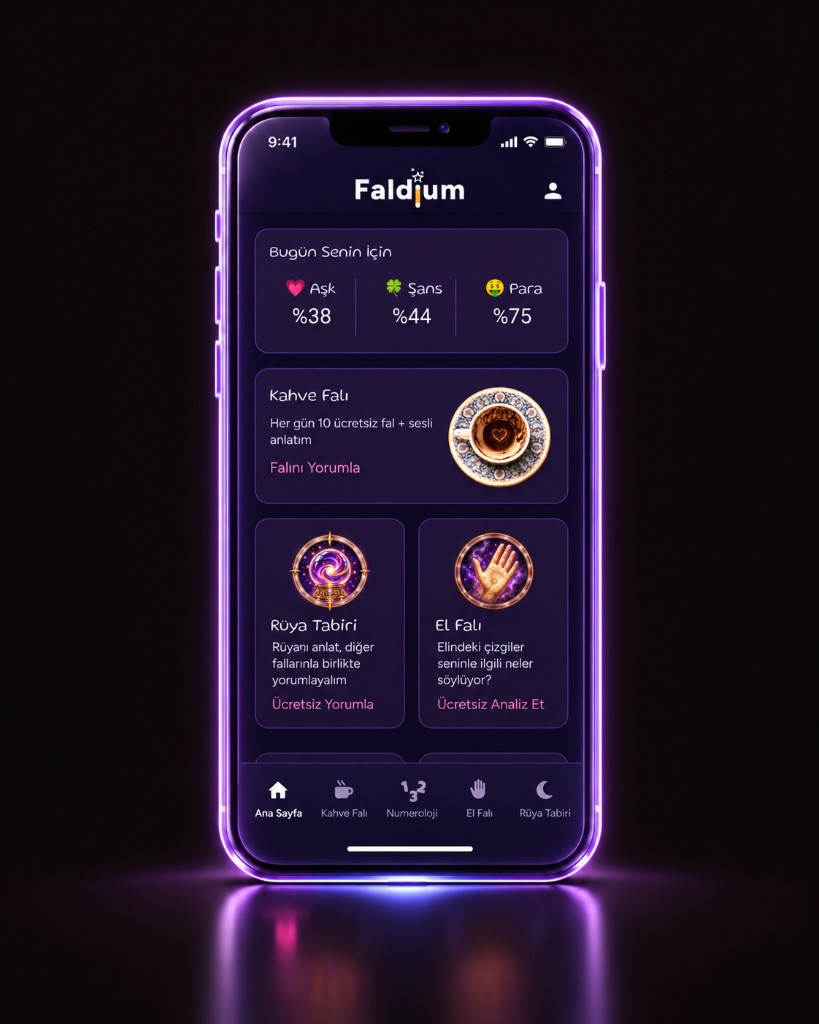
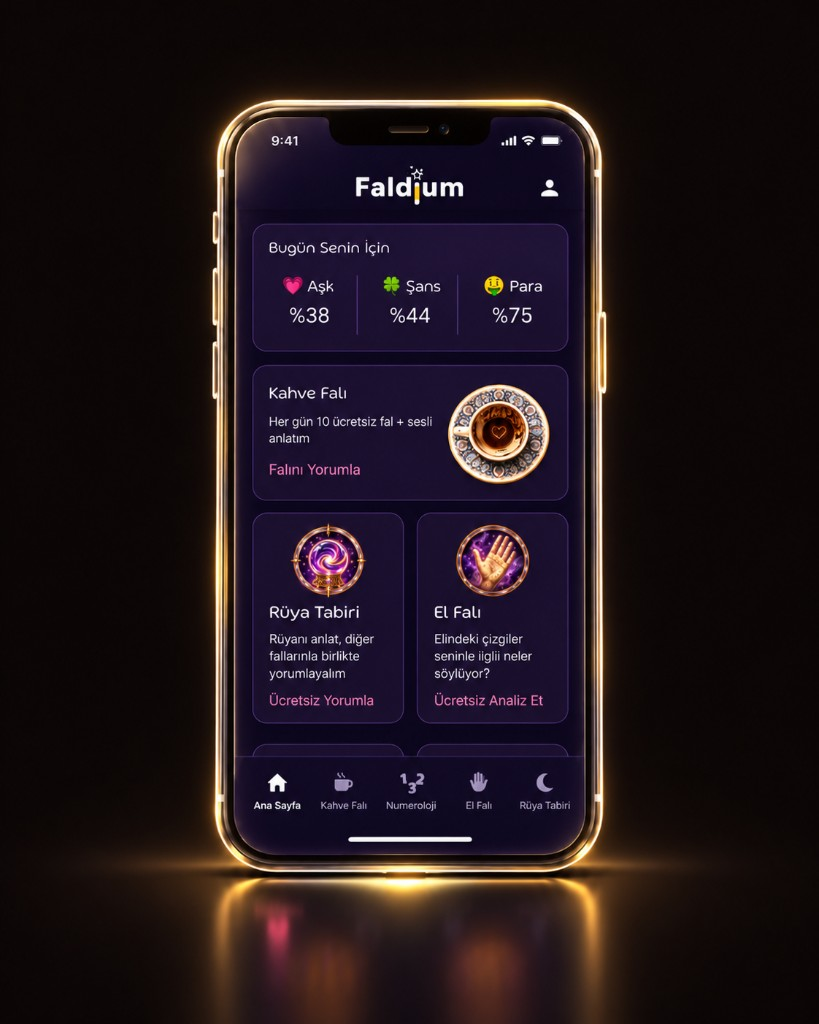
Fix section scroll targets and refresh Faldium My Products card.
Anchor Selected Works and About to their headings like My Products, and update the Faldium card mockup, copy, and layout for release.

Changed region(s): [[0.1526, 0.0625, 0.8547, 1.0], [0.58, 0.25, 0.6716, 0.3125]]

diff --git a/src/components/home/SelectedWorkPreview.tsx b/src/components/home/SelectedWorkPreview.tsx
@@ -47,11 +47,13 @@ export function SelectedWorkPreview() {
 
   return (
     <section
-      id="work"
-      className="scroll-mt-24 bg-surface px-5 pt-20 pb-0 text-ink md:scroll-mt-28 md:px-8 md:pt-28 md:pb-0"
+      className="bg-surface px-5 pt-20 pb-0 text-ink md:px-8 md:pt-28 md:pb-0"
       aria-labelledby="work-heading"
     >
-      <div className="mx-auto max-w-[72rem]">
+      <div
+        id="work"
+        className="mx-auto max-w-[72rem] scroll-mt-24 md:scroll-mt-28"
+      >
         <div className="mb-10 max-w-2xl md:mb-14">
           <h2
             id="work-heading"
@@ -118,7 +120,7 @@ export function SelectedWorkPreview() {
         </div>
 
         <article className="overflow-hidden rounded-[1.25rem] border border-line bg-surface shadow-[0_28px_70px_rgba(0,0,0,0.35)]">
-          <div className="grid grid-cols-1 gap-8 p-6 pb-0 md:grid-cols-2 md:gap-10 md:p-8 md:pb-0 md:pr-0">
+          <div className="grid grid-cols-1 gap-8 p-6 pb-0 md:grid-cols-[1.2fr_0.8fr] md:gap-10 md:p-8 md:pb-0 md:pr-0">
             <div className="flex min-w-0 flex-col pb-6 md:pb-8">
               <h3 className="text-[clamp(1.35rem,2.4vw,1.85rem)] font-semibold tracking-tight text-ink">
                 Faldium
@@ -129,10 +131,9 @@ export function SelectedWorkPreview() {
               <p className="mt-5 text-[0.95rem] leading-relaxed text-ink/90">
                 Faldium started as a Turkish coffee reading app: you upload
                 photos of your cup and get an AI reading with voice narration.
-                The app keeps developing and changing with user surveys and
-                feedback. I track usage with Firebase, Google Analytics and my
-                own event tracking to find problems and improve the UX. Next:
-                English, more countries and a companion AI app.
+                User surveys, feedback and my own usage tracking (Firebase,
+                Google Analytics, custom events) keep shaping it. Next: English,
+                more countries and a companion AI app.
               </p>
 
               <dl className="mt-6 space-y-3 text-[0.88rem] leading-snug">
@@ -171,7 +172,7 @@ export function SelectedWorkPreview() {
             </div>
 
             <div className="min-w-0 self-end">
-              <div className="ml-auto w-[90%] opacity-70">
+              <div className="ml-auto w-[85%] -translate-x-10 opacity-70">
                 <ImagePlaceholder
                   id="faldium-card"
                   description="Faldium app screens"

diff --git a/src/components/layout/SiteHeader.tsx b/src/components/layout/SiteHeader.tsx
@@ -92,14 +92,17 @@ export function SiteHeader() {
                     href={item.href}
                     className={linkClass}
                     onClick={(event) => {
+                      if (!item.href) return;
+                      event.preventDefault();
                       if (item.href === "#work") {
                         window.dispatchEvent(new Event(WORKS_GO_START_EVENT));
                       }
-                      if (window.location.hash === item.href) {
-                        event.preventDefault();
-                        document
-                          .getElementById(item.href.slice(1))
-                          ?.scrollIntoView({ behavior: "smooth" });
+                      const target = document.getElementById(
+                        item.href.slice(1),
+                      );
+                      if (target) {
+                        target.scrollIntoView({ behavior: "smooth" });
+                        window.history.pushState(null, "", item.href);
                       }
                     }}
                   >
@@ -143,14 +146,17 @@ export function SiteHeader() {
                     className="inline-flex cursor-pointer items-center gap-3 py-2 text-left text-[calc(1.125rem-2px)] font-normal tracking-[0.04em] text-white/90 uppercase"
                     onClick={(event) => {
                       setMenuOpen(false);
+                      if (!item.href) return;
+                      event.preventDefault();
                       if (item.href === "#work") {
                         window.dispatchEvent(new Event(WORKS_GO_START_EVENT));
                       }
-                      if (item.href && window.location.hash === item.href) {
-                        event.preventDefault();
-                        document
-                          .getElementById(item.href.slice(1))
-                          ?.scrollIntoView({ behavior: "smooth" });
+                      const target = document.getElementById(
+                        item.href.slice(1),
+                      );
+                      if (target) {
+                        target.scrollIntoView({ behavior: "smooth" });
+                        window.history.pushState(null, "", item.href);
                       }
                     }}
                   >

diff --git a/src/components/home/Hero.tsx b/src/components/home/Hero.tsx
@@ -1,5 +1,8 @@
+"use client";
+
 import { motto } from "@/lib/fonts";
 import { HeroMedia } from "@/components/home/HeroMedia";
+import { WORKS_GO_START_EVENT } from "@/content/home";
 
 export function Hero() {
   return (
@@ -40,6 +43,15 @@ export function Hero() {
           <a
             href="#work"
             className="mt-12 inline-flex min-h-11 w-fit items-center justify-center gap-2 rounded-full border border-white/40 bg-transparent px-6 text-xs tracking-[0.16em] text-white/85 uppercase transition-colors hover:border-white/70 hover:bg-white/10 hover:text-white/90 md:mt-14"
+            onClick={(event) => {
+              event.preventDefault();
+              window.dispatchEvent(new Event(WORKS_GO_START_EVENT));
+              const target = document.getElementById("work");
+              if (target) {
+                target.scrollIntoView({ behavior: "smooth" });
+                window.history.pushState(null, "", "#work");
+              }
+            }}
           >
             Selected works
             <svg

diff --git a/src/components/home/AboutMe.tsx b/src/components/home/AboutMe.tsx
@@ -3,11 +3,13 @@ import { AboutFencingVideo } from "@/components/home/AboutFencingVideo";
 export function AboutMe() {
   return (
     <section
-      id="about"
-      className="scroll-mt-24 bg-surface px-5 pt-20 pb-0 text-ink md:scroll-mt-28 md:px-8 md:pt-28 md:pb-0"
+      className="bg-surface px-5 pt-20 pb-0 text-ink md:px-8 md:pt-28 md:pb-0"
       aria-labelledby="about-heading"
     >
-      <div className="mx-auto max-w-[72rem]">
+      <div
+        id="about"
+        className="mx-auto max-w-[72rem] scroll-mt-24 md:scroll-mt-28"
+      >
         <div className="flex flex-col items-center gap-10 md:flex-row md:items-center md:justify-between md:gap-14 lg:gap-16">
           <div className="min-w-0 w-full max-w-2xl">
             <h2
